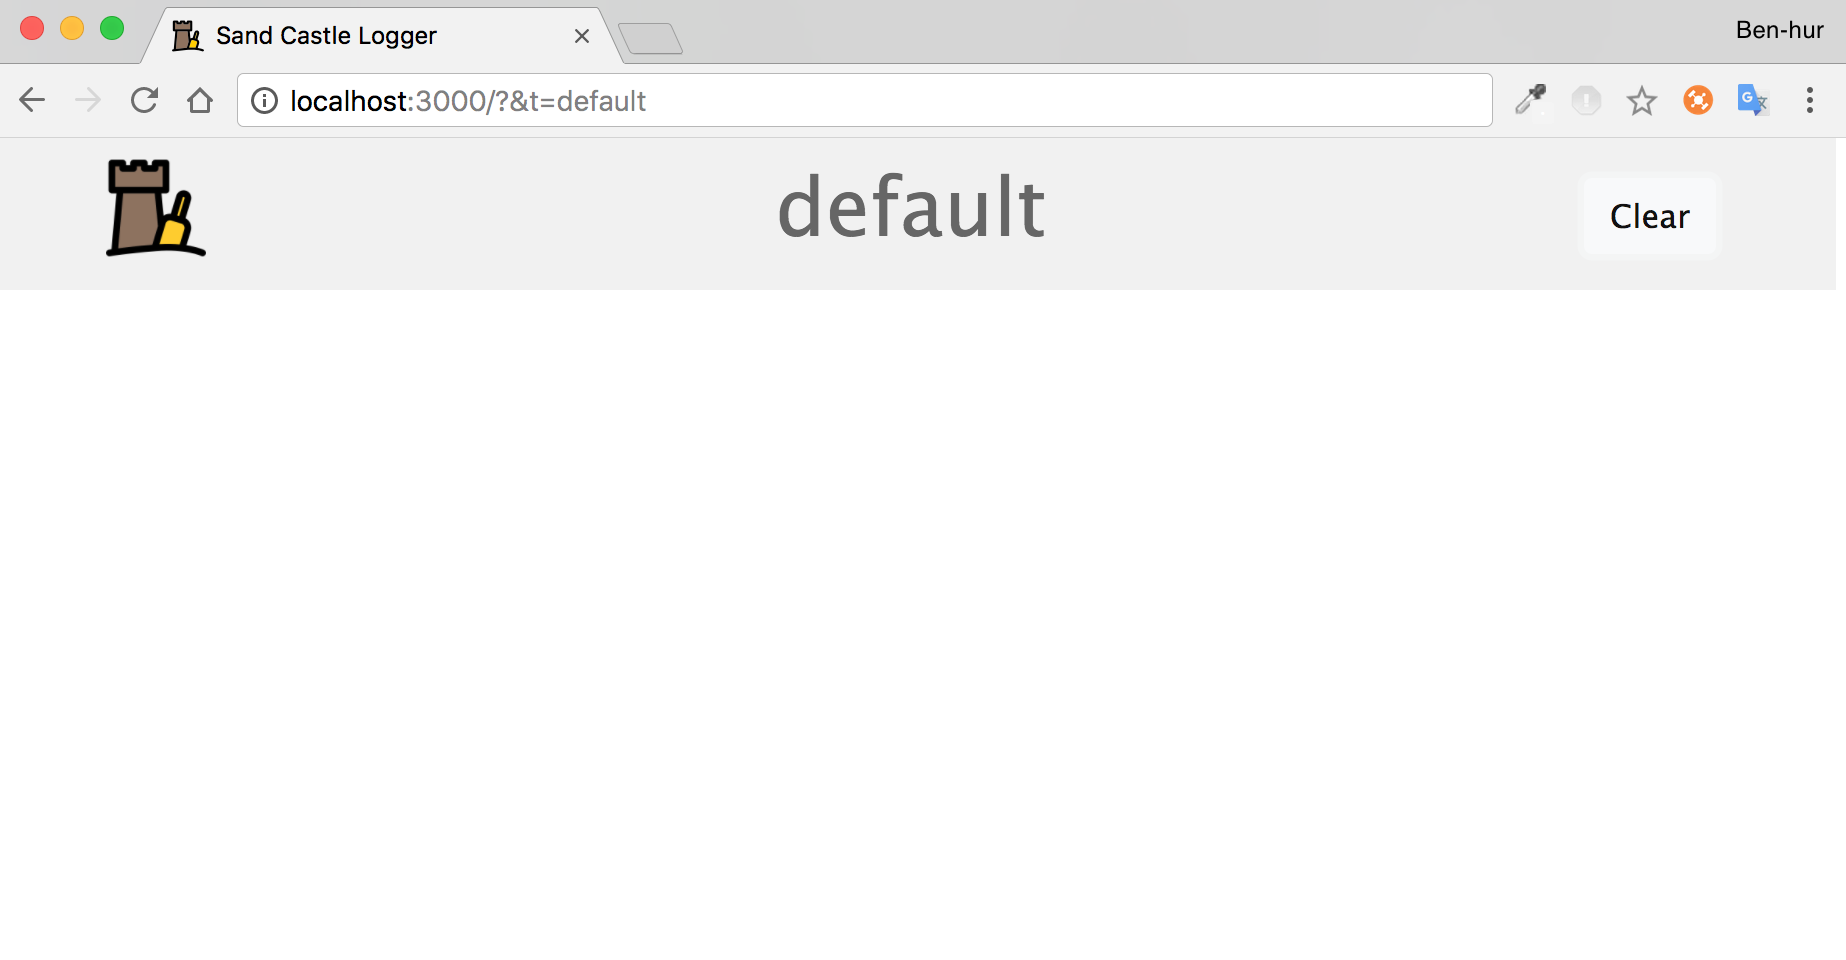
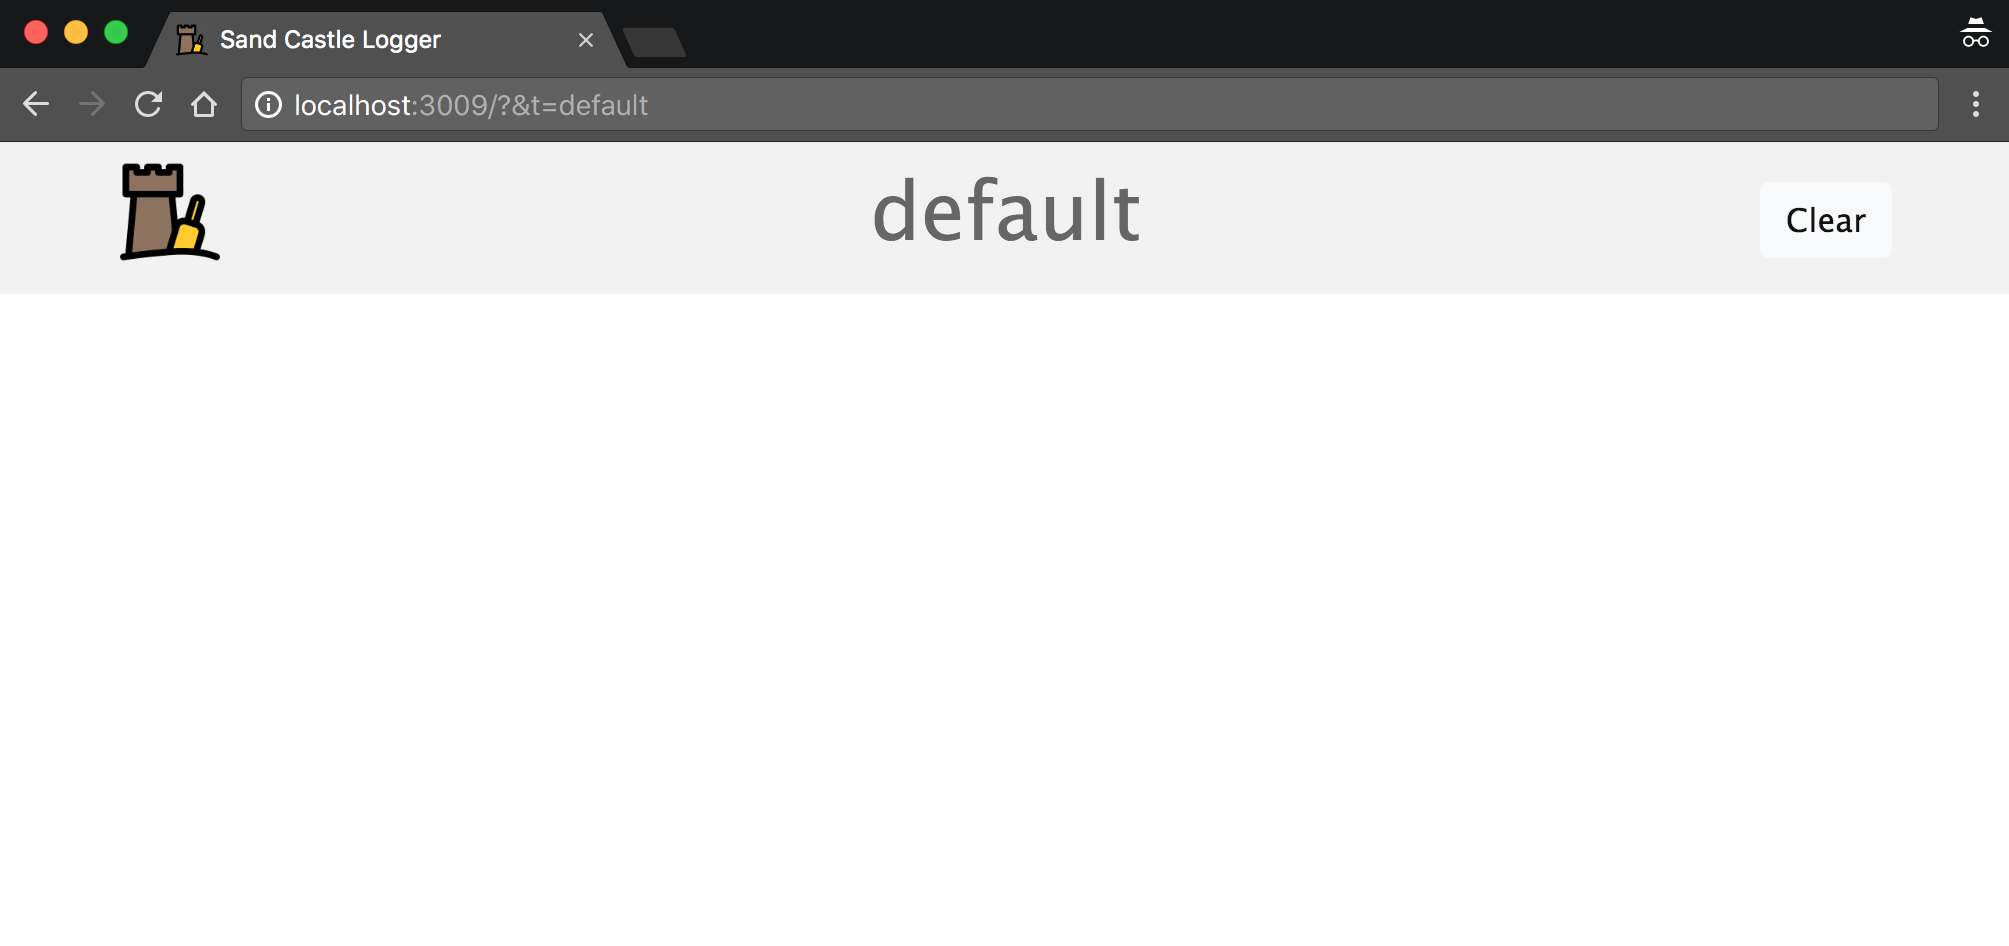
feat(1.4.0)

Changed region(s): [[0.0, 0.0, 1.0, 0.2759], [0.4014, 0.1839, 0.5867, 0.2759], [0.8646, 0.2146, 0.9263, 0.2452]]

diff --git a/app/public/javascripts/index.js b/app/public/javascripts/index.js
@@ -4,35 +4,15 @@ var list = new Vue({
         logs: []
     },
     methods: {
-        getContainerStyle: function(log) {
-            var type = log.metadata.type || 'info'
-
-            if (type === 'success') {
-                return { 'border-color': '#30A54A' }
-            }
-
-            if (type === 'error') {
-                return { 'border-color': '#DA3849' }
-            }
-
-            return {}
+        getContainerStyle: function (log) {
+            return { 'border-color': log.metadata.color }
         },
-        getTitleClass: function(log) {
-            var type = log.metadata.type || 'info'
-
-            if (type === 'success') {
-                return { 'text-success': true }
-            }
-
-            if (type === 'error') {
-                return { 'text-danger': true }
-            }
-
-            return {}
+        getTitleStyle: function (log) {
+            return { 'color': log.metadata.color }
         }
     },
     filters: {
-        pretty: function(value) {
+        pretty: function (value) {
             return JSON.stringify(value, null, 2)
         }
     }
@@ -41,15 +21,15 @@ var list = new Vue({
 var header = new Vue({
     el: '#header',
     data: {
-        id: 'carregando...',
+        id: 'loading...',
         message: {
-            text: 'asdasdasasd',
+            text: 'loading...',
             visible: false,
             type: 'error'
         }
     },
     methods: {
-        clear: function() {
+        clear: function () {
             list.logs = []
         }
     }
@@ -108,25 +88,25 @@ function join() {
     var namespace = getCurrentNamespace()
     axios
         .post('/join/' + namespace)
-        .then(function(res) {
+        .then(function (res) {
             listen(res.data.namespace)
         })
-        .catch(function(err) {
+        .catch(function (err) {
             console.error(err)
         })
 }
 
 function listen(namespace) {
     socket = io(namespace)
-    socket.on('connection:success', function(msg) {
+    socket.on('connection:success', function (msg) {
         header.id = namespace.replace('/', '')
     })
 
-    socket.on('log:new', function(msg) {
+    socket.on('log:new', function (msg) {
         list.logs.unshift(msg)
     })
 
-    socket.on('disconnect', function() {
+    socket.on('disconnect', function () {
         header.message = {
             text: 'Disconnected! Reload the page to reconnect.',
             visible: true,

diff --git a/app/domain/sendLog.js b/app/domain/sendLog.js
@@ -13,7 +13,7 @@ module.exports = app => {
     function hydrateLog(logData) {
         logData.metadata = Object.assign(
             {
-                type: 'info',
+                color: 'lightgray',
                 icon: null,
                 uuid: guid()
             },

diff --git a/app/config/express.js b/app/config/express.js
@@ -1,5 +1,4 @@
 const express = require('express')
-const path = require('path')
 const favicon = require('serve-favicon')
 const logger = require('morgan')
 const cookieParser = require('cookie-parser')

diff --git a/app/public/stylesheets/style.css b/app/public/stylesheets/style.css
@@ -35,7 +35,8 @@ a {
 }
 
 .log-body {
-    /* margin: 10px; */
+    max-height: 80vh;
+    overflow-y: scroll;
 }
 
 .log-code {

diff --git a/README.md b/README.md
@@ -13,7 +13,21 @@ How it works:
 
 
 2) Send a request to the api: <br />
-![send-request](docs/res/send-request.png)
+```
+POST http://localhost:3009/api/log/default
+Body (application/json)
+{
+  "metadata": {
+    "title": "Api url: /api/users/test",
+    "color": "#FF4A1C",
+    "icon": "fa-bug"
+  },
+  "body": {
+    "error": "internal_error",
+    "error_description": "unable to connect to database."
+  }
+}
+```
 
 
 3) View the log appears on dashboard: <br />
@@ -61,11 +75,11 @@ The body of the request must be:
 ```json
 {
 	"metadata": {
-		"title": "your log title",
+		"title": "this is my title",
 
-		"type": "type of the error (default=info)",
-		"icon": "font awesome icon (default=null)",
-		"uuid": "a unique id for your log (default=auto-generated)"
+		"color": "#FFD5FF",
+		"icon": "fa-bug",
+		"uuid": "this_is_the_id_1"
 	},
 	"body": {}
 }
@@ -73,10 +87,10 @@ The body of the request must be:
 
 When:
 * `metadata.`
-    * `title`: the title of the log.
-    * `type` (optional): the type of the log (`error` | `info` | `success`)
-    * `icon` (optional): any [Font-Awesome](http://fontawesome.io/icons/) icon.
-	* `uuid` (optional): some id to let you identify your log.
+  * `title`: the title of the log.
+  * `color` (optional): color of the log (string, default=gray, accepts any that works with css).
+  * `icon` (optional): any [Font-Awesome](http://fontawesome.io/icons/) icon.
+  * `uuid` (optional): some id to let you identify your log.
 * `body`: any `json object` you want to log.
 
 
@@ -88,18 +102,19 @@ API Request:<br />
 ```json
 {
 	"metadata": {
-		"title": "/api/users/test",
-		"type": "error",
-		"icon": "fa-bug"
+		"title": "PUT /api/users",
+		"color": "#63C132",
+		"icon": "fa-check-circle"
 	},
 	"body": {
-		"error": "internal_error",
-		"error_description": "unable to connect to database."
+		"message": "user saved!"
 	}
 }
 ```
 
-![log anathomy](docs/res/log-anathomy.png)
+Will reproduce:
+
+![log anathomy](docs/res/log-sample-result.png)
 
 
 ## "Advanced"
@@ -107,27 +122,11 @@ API Request:<br />
 If you want, take a look in [Advanced Options](docs/advanced.md)
 
 
-
 ## Thanks To
 **Icon:** <div>Icons made by <a href="http://www.freepik.com" title="Freepik">Freepik</a> from <a href="https://www.flaticon.com/" title="Flaticon">www.flaticon.com</a> is licensed by <a href="http://creativecommons.org/licenses/by/3.0/" title="Creative Commons BY 3.0" target="_blank">CC 3.0 BY</a></div>
 
+
+
 ## Release Notes
 
-### 1.3.0
-* Change: change default port to 3009 due conflicts with default webapps port (3000)
-* Feat: adding docker-compose to make start/stop easier
-
-### 1.2.2
-* Feat: adding `onDisconnect` alert message
-
-### 1.2.1
-* Feat: adding `uuid` to logs.
-* Fix: wrong options parse.
-
-### 1.1.0
-* Feat: adding client auth header options in advanced settings.
-
-### 1.0.1
-* Fix: cached time on log item.
-
-### 1.0.0: First release
+[Take a look](CHANGELOG.md)

diff --git a/CHANGELOG.md b/CHANGELOG.md
@@ -1,0 +1,16 @@
+# Changelog
+All notable changes to this project will be documented in this file.
+
+The format is based on [Keep a Changelog](http://keepachangelog.com/en/1.0.0/)
+and this project adheres to [Semantic Versioning](http://semver.org/spec/v2.0.0.html).
+
+## [Unreleased]
+
+## [1.4.0] - 2018-08-14
+
+### Added
+- Makefile: if you use docker, you have usefull comands in the Makefile.
+
+### Changed
+- Api: Now the api receive an `color` instead `type`. It's more flexible and let you decide the types of your logs.
+- Logs: now the logs has max height. It prevents large logger + long scrolling time.
